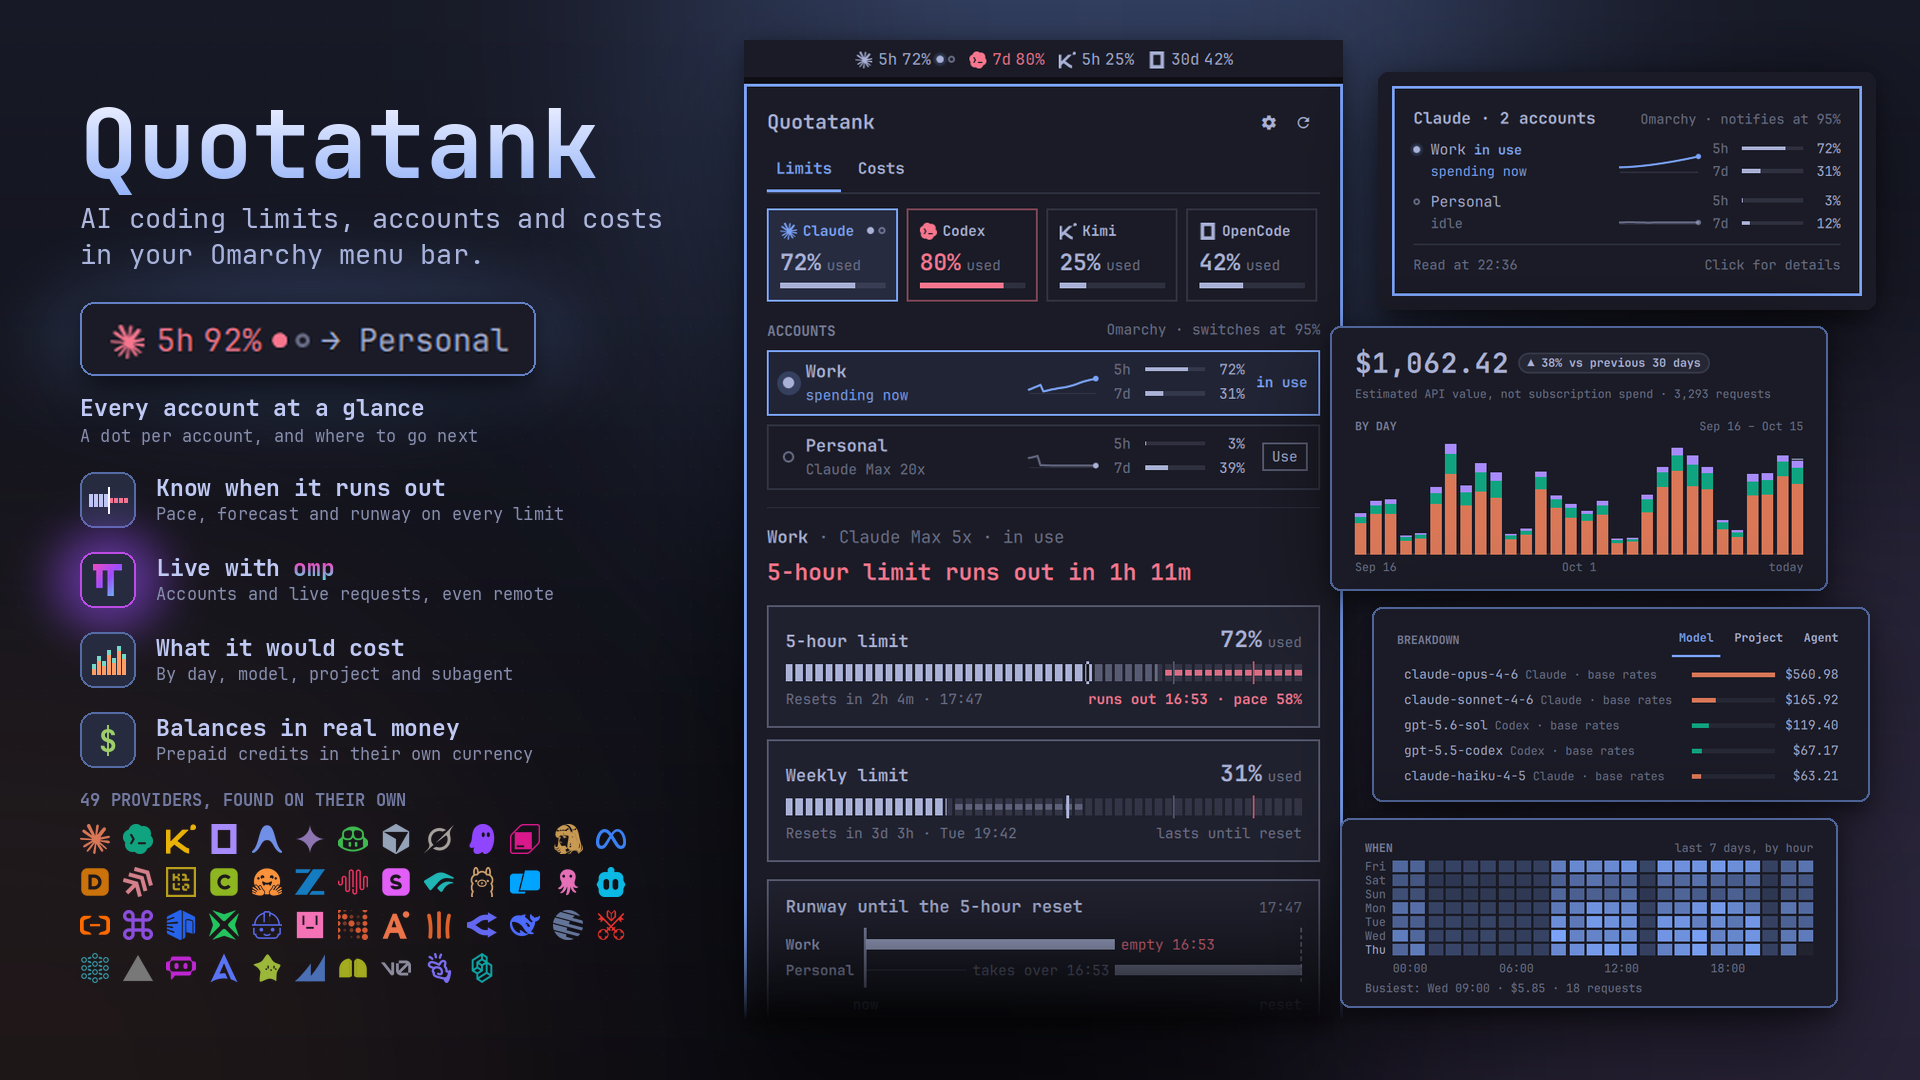
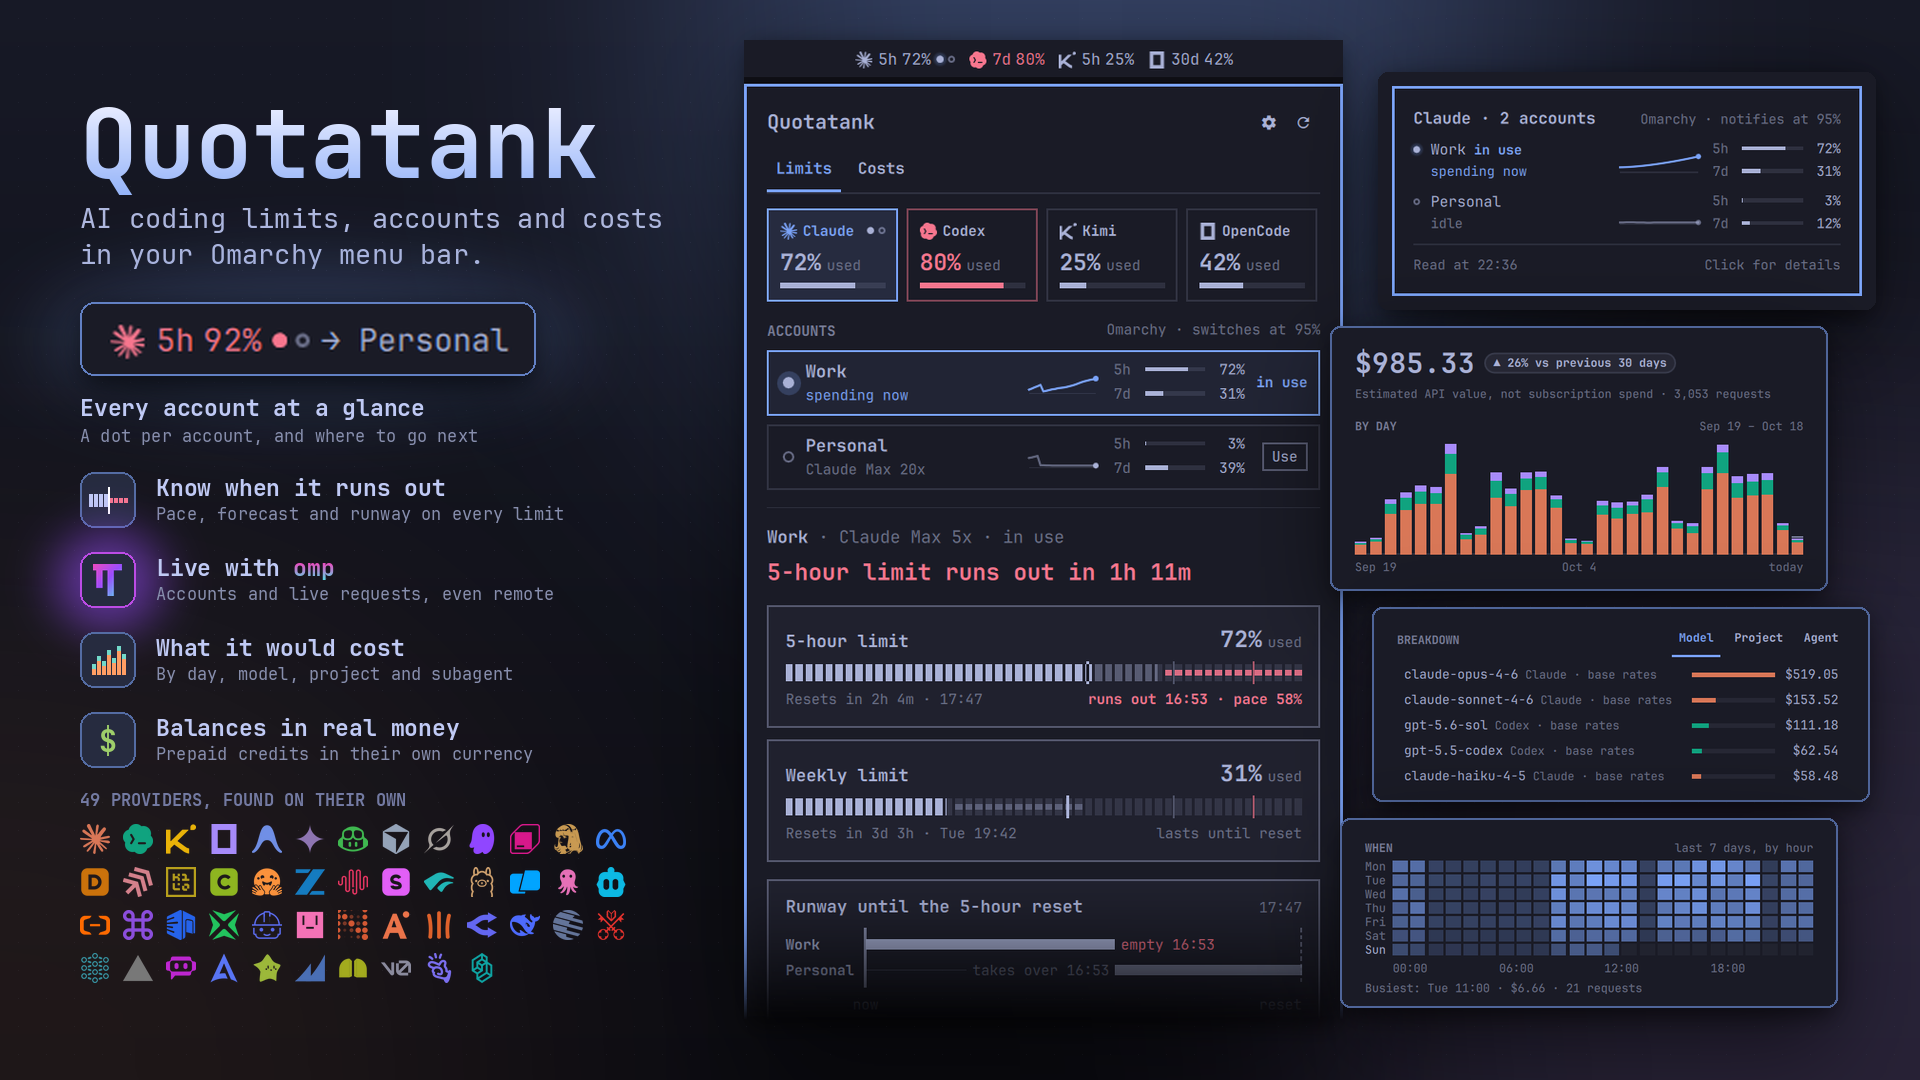
Product images and test data use made-up names
The Costs screenshots showed the owner's own project folders, and several
images, comments and tests named his computers. Projects are now web-shop,
billing-api, mobile-app, data-pipeline and docs-site, the remote omp computer
is devbox, and the LAN address in the URL tests is 192.168.1.20. costs.png,
hero.png, omp.png, settings.png and preview.png were captured again from
fixtures; the release checklist now requires made-up names.

diff --git a/tests/test_usage_logic.js b/tests/test_usage_logic.js
@@ -930,7 +930,7 @@ console.log("Provider setup: passed");
     ],
     projects: [
       { id: "other", name: "Other", costUsd: 9, totalTokens: 10, records: 3 },
-      { id: "a1", name: "quotatank", costUsd: 3, totalTokens: 5, records: 1 },
+      { id: "a1", name: "web-shop", costUsd: 3, totalTokens: 5, records: 1 },
       { id: "b2", name: "billing-api", costUsd: 5, totalTokens: 5, records: 1375 }
     ],
     agents: [{ id: "subagent", costUsd: 2, totalTokens: 100, records: 4 }, { id: "main", costUsd: 6, totalTokens: 50, records: 9 }]
@@ -951,7 +951,7 @@ console.log("Provider setup: passed");
   assert.equal(models[2].fraction, 0);
   assert.equal(context.costBreakdownRows(dimensions, "model", "tokens")[0].name, "kimi-k2", "Tokens ranks by tokens, priced or not");
   const projects = context.costBreakdownRows(dimensions, "project", "cost");
-  assert.equal(projects.map(row => row.name).join(","), "billing-api,quotatank,Other", "the folded Other folder stays last");
+  assert.equal(projects.map(row => row.name).join(","), "billing-api,web-shop,Other", "the folded Other folder stays last");
   assert.equal(projects[0].context + "|" + projects[1].context, "1,375 requests|1 request");
   const agents = context.costBreakdownRows(dimensions, "agent", "cost");
   assert.equal(agents.map(row => row.name + " · " + row.context).join("|"),

diff --git a/tests/qml/cost-shell.qml b/tests/qml/cost-shell.qml
@@ -466,7 +466,7 @@ ShellRoot {
         root.check(dimensions.visible && dimensions.options.length === 3, "Model, Project and Agent are offered")
         root.check(root.find(root.costs, "costModel-0").name === "claude-opus-4-6", "models rank by cost")
         dimensions.changed("project")
-        root.check(root.find(root.costs, "costModel-0") === null && root.find(root.costs, "costProject-0").name === "quotatank"
+        root.check(root.find(root.costs, "costModel-0") === null && root.find(root.costs, "costProject-0").name === "web-shop"
           && root.find(root.costs, "costProject-3").name === "Other", "Project lists folders, the folded rest last")
         dimensions.changed("agent")
         root.check(root.find(root.costs, "costAgent-0").name === "Main sessions" && root.find(root.costs, "costAgent-1").name === "Subagents"

diff --git a/docs/releasing.md b/docs/releasing.md
@@ -9,7 +9,9 @@
 5. Refresh the README screenshots under `docs/screenshots/*.png` when visible UI
    changes. Use fixture data or owner-approved captures with account identities
    hidden. Crop to the widget; never publish unrelated desktop content or account
-   tooltips. Label fixture examples in the README.
+   tooltips. Project and folder names, computer and host names (footers, URLs,
+   summaries), emails and paths must be made up, in the fixtures and in the test
+   data alike. Label fixture examples in the README.
    Update root `preview.png` separately: the marketplace reads this image, not
    the README gallery. The current 1920×1080 composition uses the title, a short
    provider tagline, the Limits panel with eight provider tiles, and the Providers
